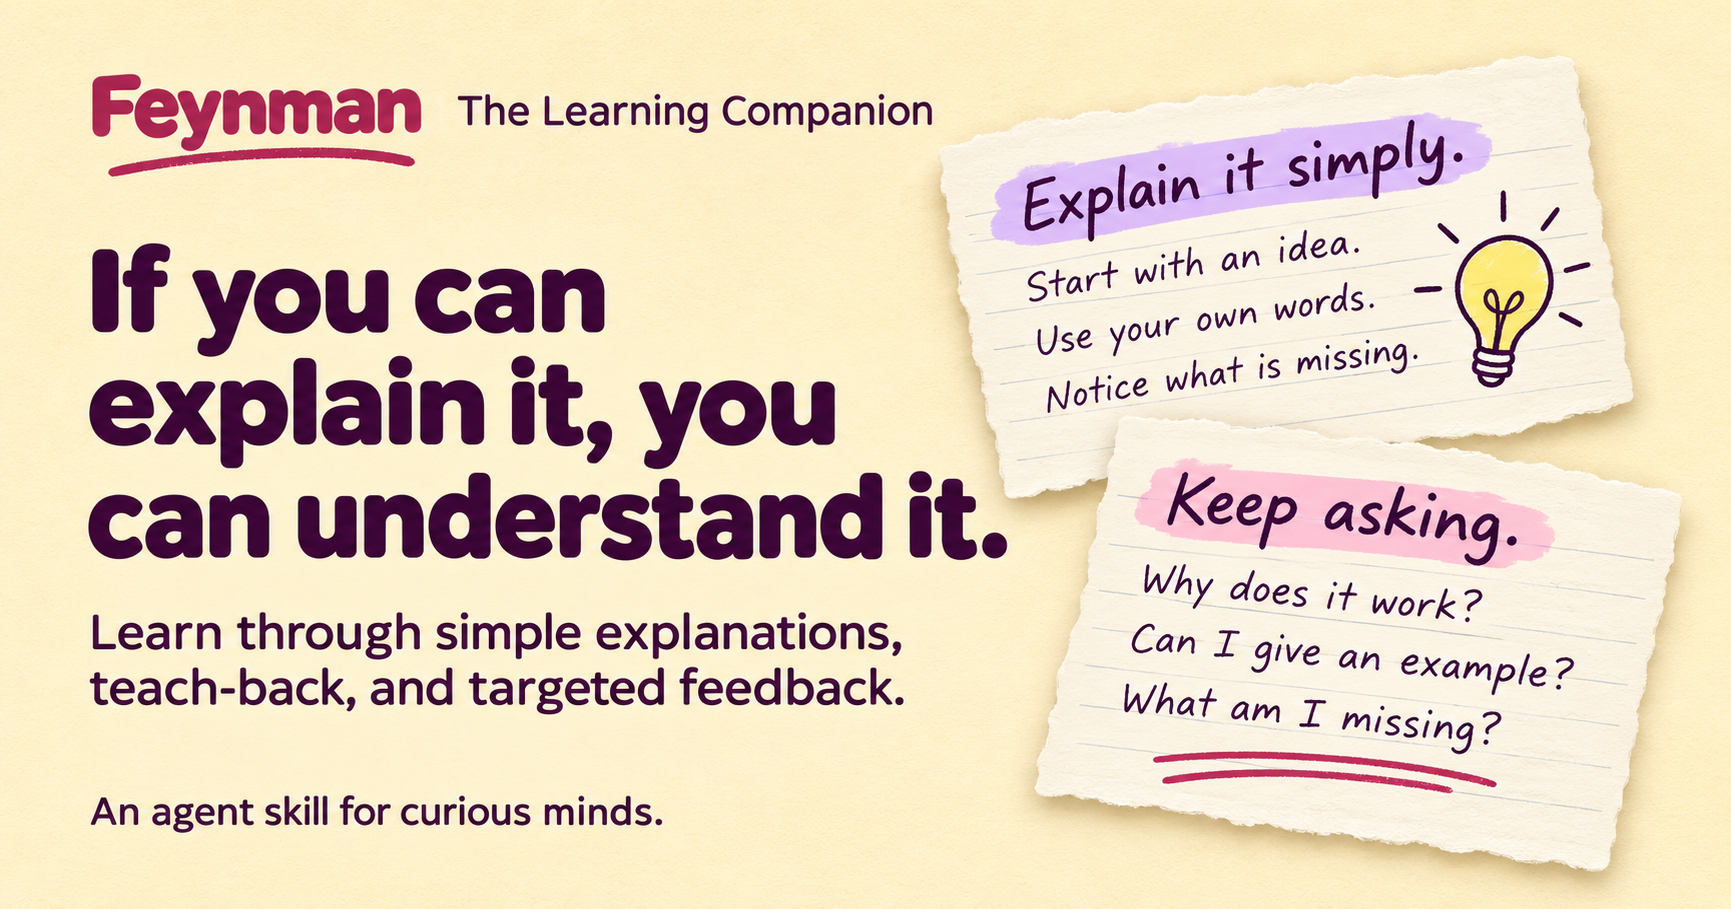
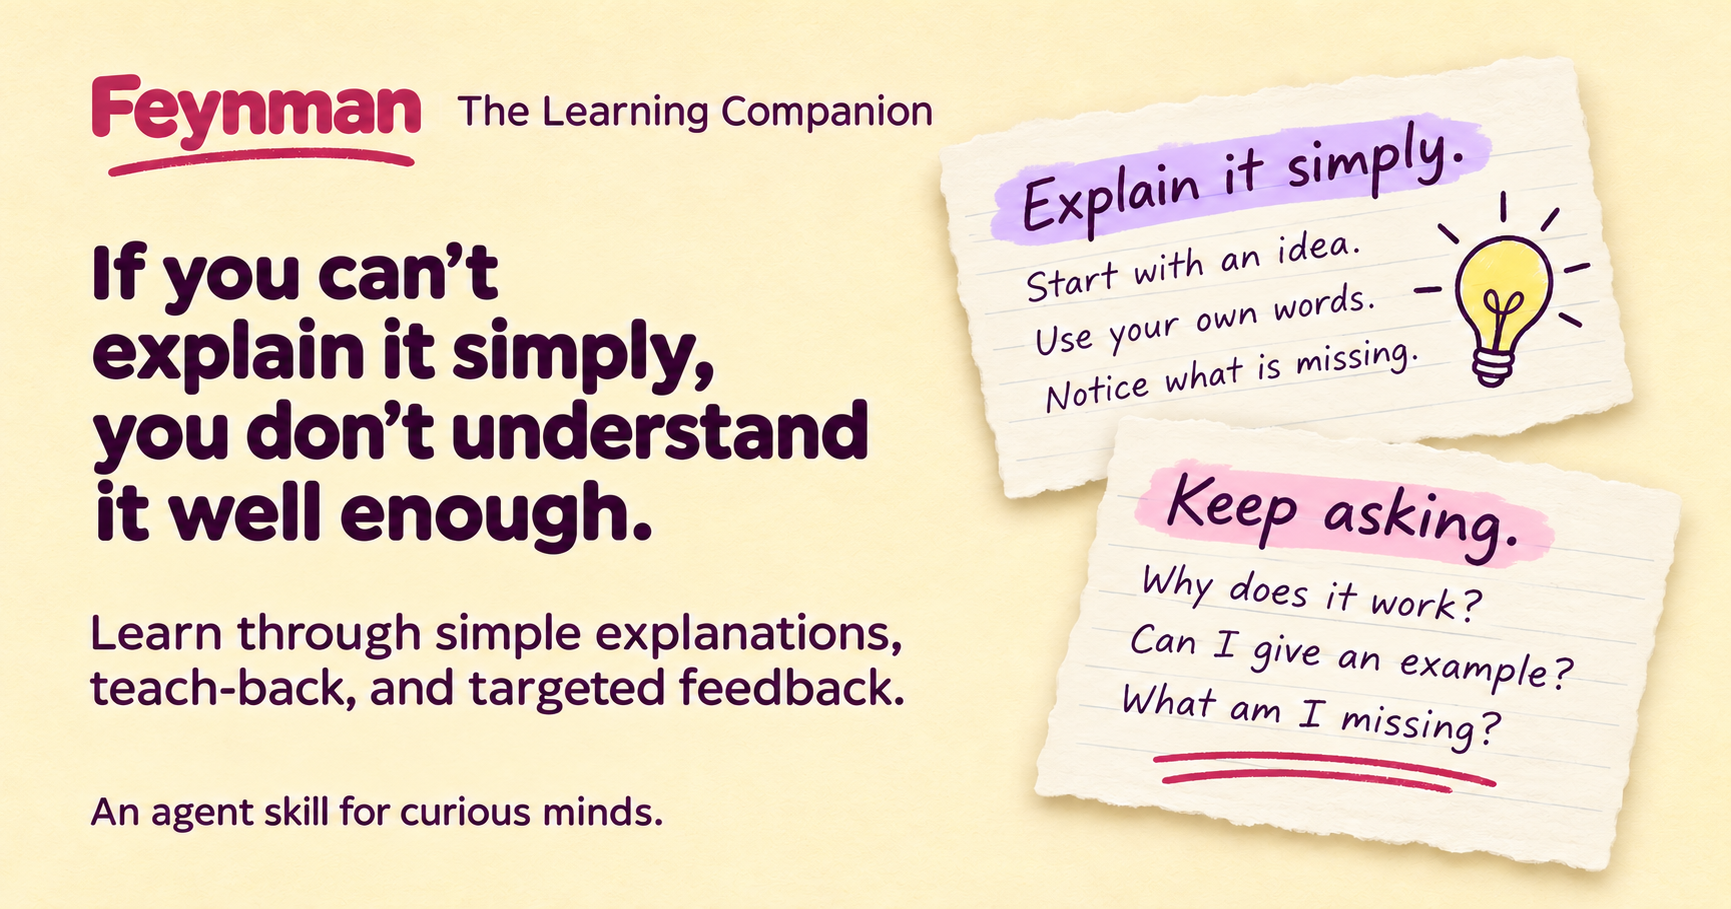
minor fix

diff --git a/index.html b/index.html
@@ -14,13 +14,13 @@
   <meta property="og:description" content="Understand concepts and study your own material with an AI learning skill built around simple explanations, teach-back and the Feynman Technique.">
   <meta property="og:url" content="https://melvinvarghese.github.io/Feynman-Learning-Companion/">
   <meta property="og:site_name" content="Feynman – The Learning Companion">
-  <meta property="og:image" content="https://melvinvarghese.github.io/Feynman-Learning-Companion/og-image.png">
-  <meta property="og:image:secure_url" content="https://melvinvarghese.github.io/Feynman-Learning-Companion/og-image.png">
+  <meta property="og:image" content="https://melvinvarghese.github.io/Feynman-Learning-Companion/og-image.png?v=2">
+  <meta property="og:image:secure_url" content="https://melvinvarghese.github.io/Feynman-Learning-Companion/og-image.png?v=2">
   <meta property="og:image:type" content="image/png">
   <meta property="og:image:width" content="1731">
   <meta property="og:image:height" content="909">
-  <meta property="og:image:alt" content="Feynman Learning Companion: If you can explain it, you can understand it. Purple lettering and handwritten study notes on warm yellow paper.">
-  <meta name="twitter:image" content="https://melvinvarghese.github.io/Feynman-Learning-Companion/og-image.png">
+  <meta property="og:image:alt" content="Feynman Learning Companion: If you can't explain it simply, you don't understand it well enough. Purple lettering and handwritten study notes on warm yellow paper.">
+  <meta name="twitter:image" content="https://melvinvarghese.github.io/Feynman-Learning-Companion/og-image.png?v=2">
   <meta name="twitter:image:alt" content="Feynman: learn through simple explanations, teach-back, and targeted feedback.">
   <meta name="twitter:card" content="summary_large_image">
   <meta name="twitter:title" content="Feynman Learning Companion">
@@ -132,7 +132,7 @@
       <div class="wrap hero-grid">
         <div class="hero-content">
           <p class="eyebrow">The Explain-It Notebook</p>
-          <h1 id="hero-title">If you can<br>explain it, you<br>can understand it.</h1>
+          <h1 id="hero-title">If you can't<br>explain it simply,<br>you don't understand<br>it well enough.</h1>
           <p class="hero-copy">An agent skill for learning through simple explanations, teach-back, and targeted feedback.</p>
           <div class="actions"><a class="button primary" href="https://github.com/melvinvarghese/Feynman-Learning-Companion/archive/refs/heads/main.zip">Download the skill</a><a class="button secondary" href="https://github.com/melvinvarghese/Feynman-Learning-Companion#install-the-skill">Read the instructions</a></div>
         </div>
